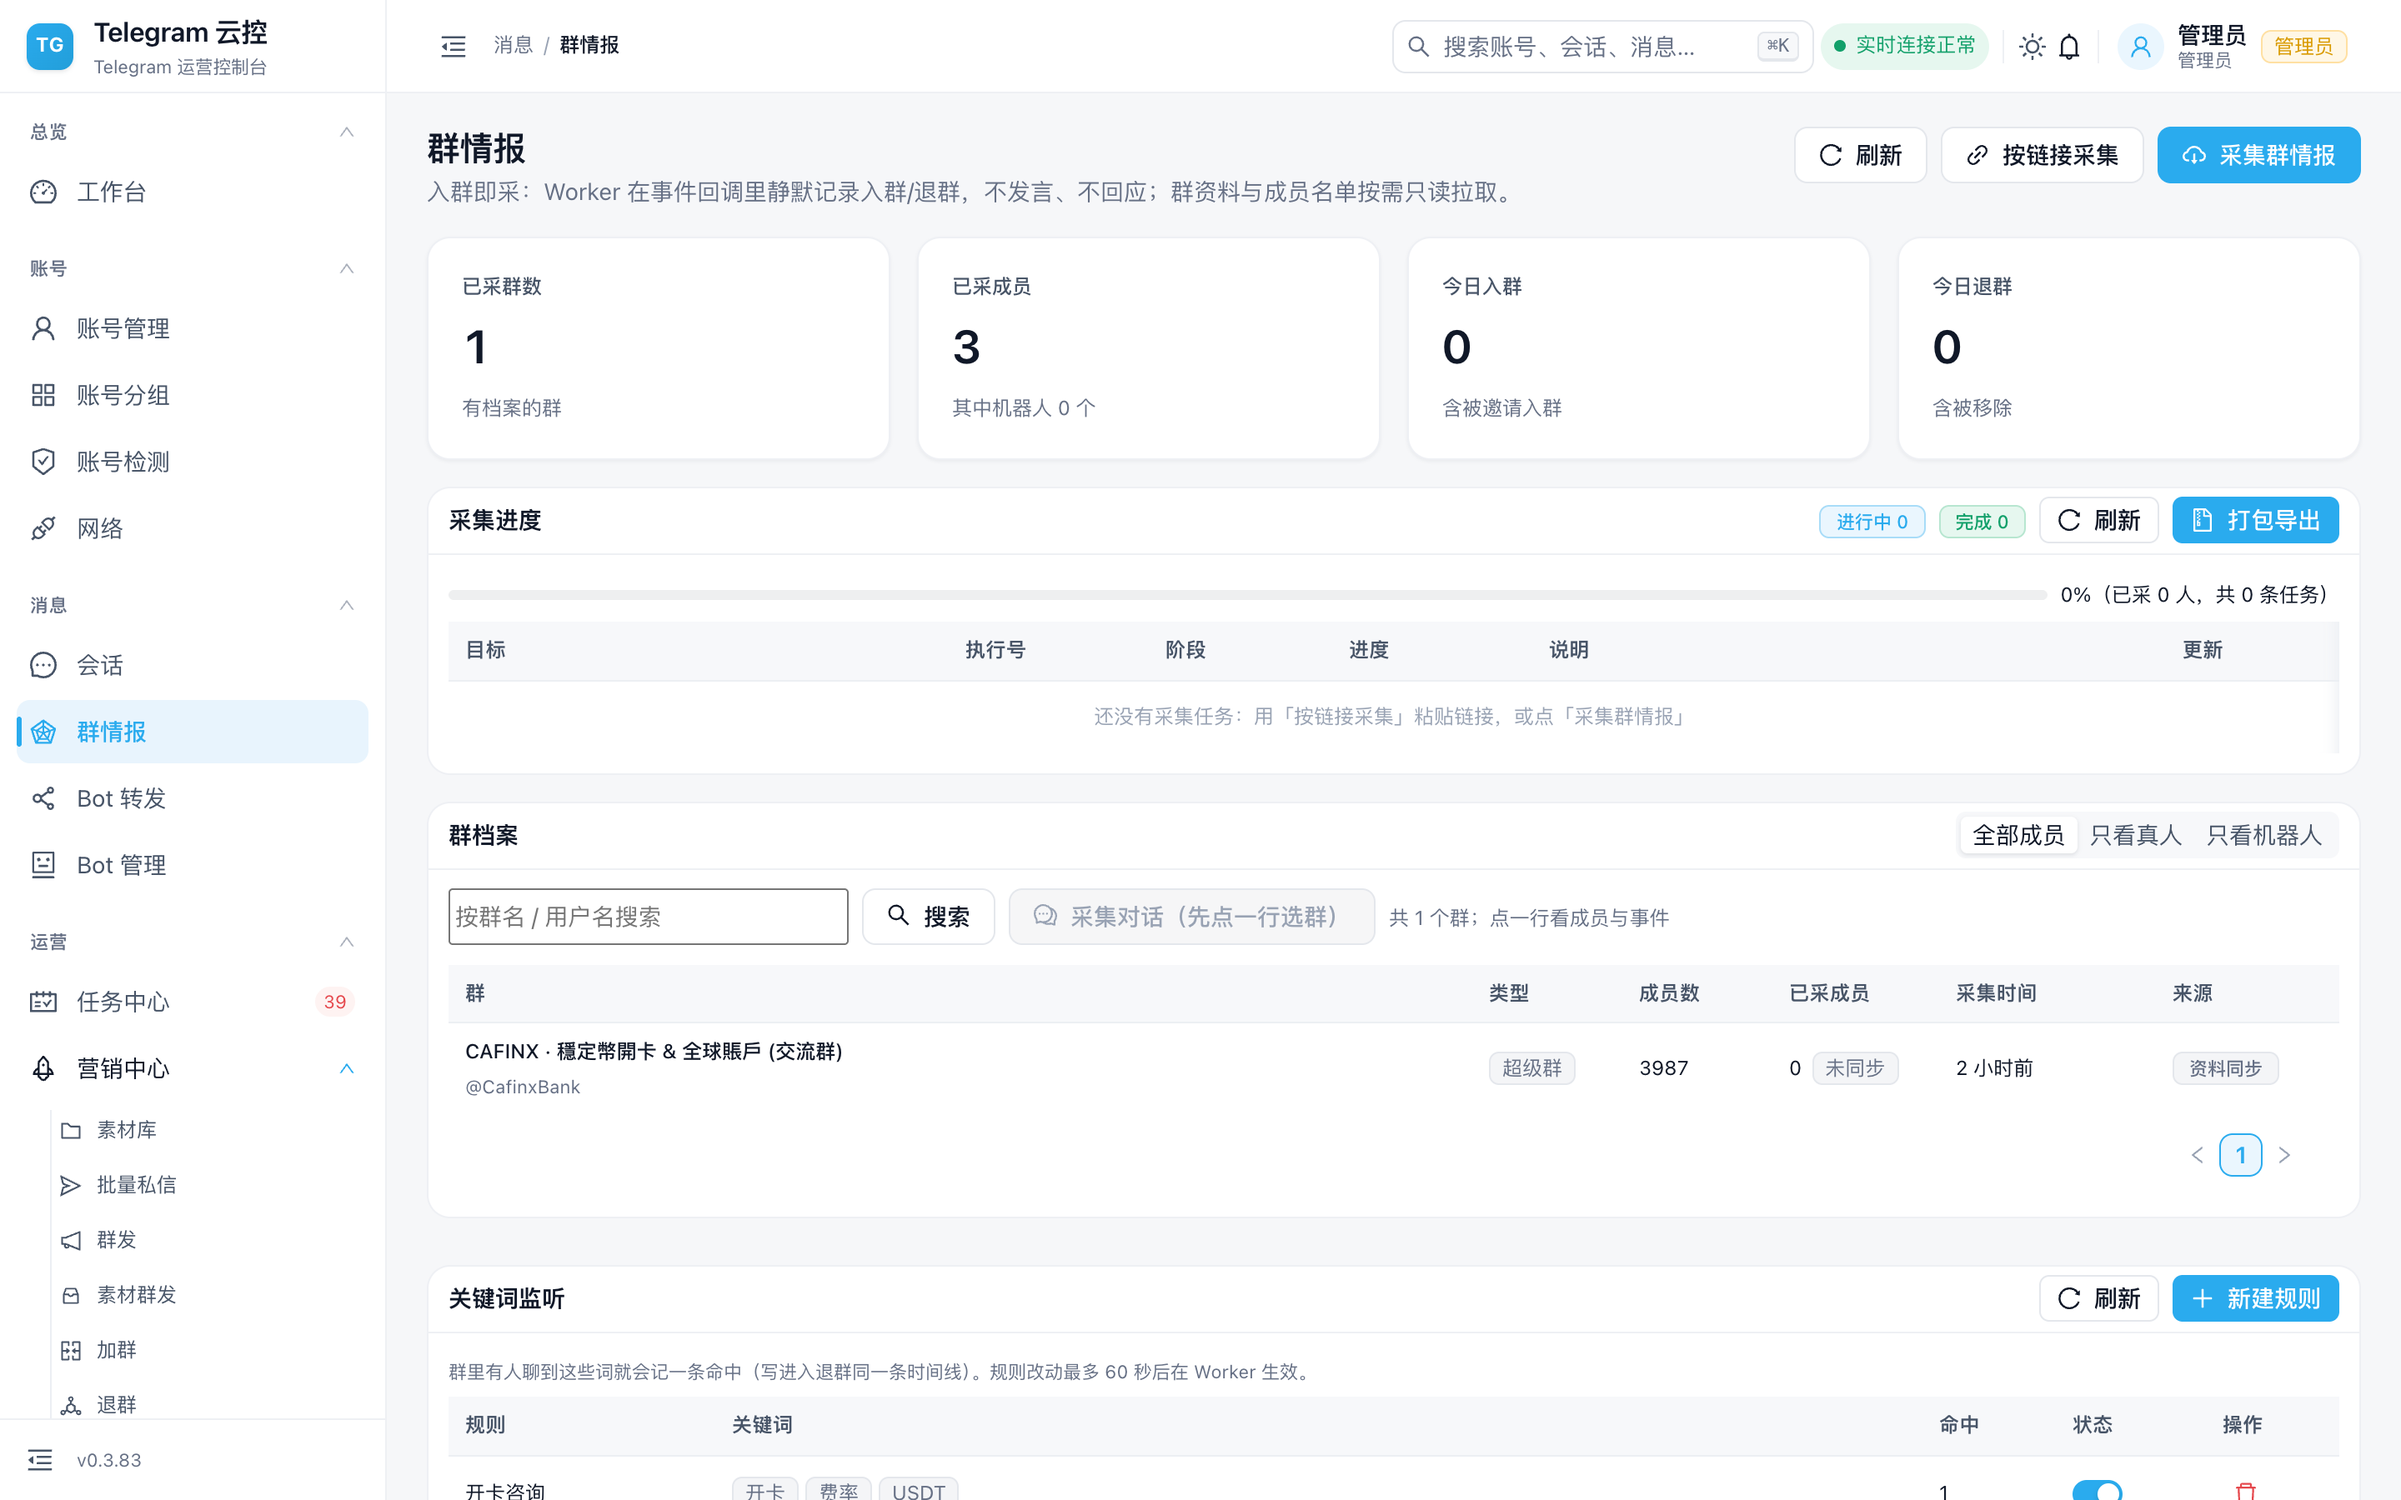
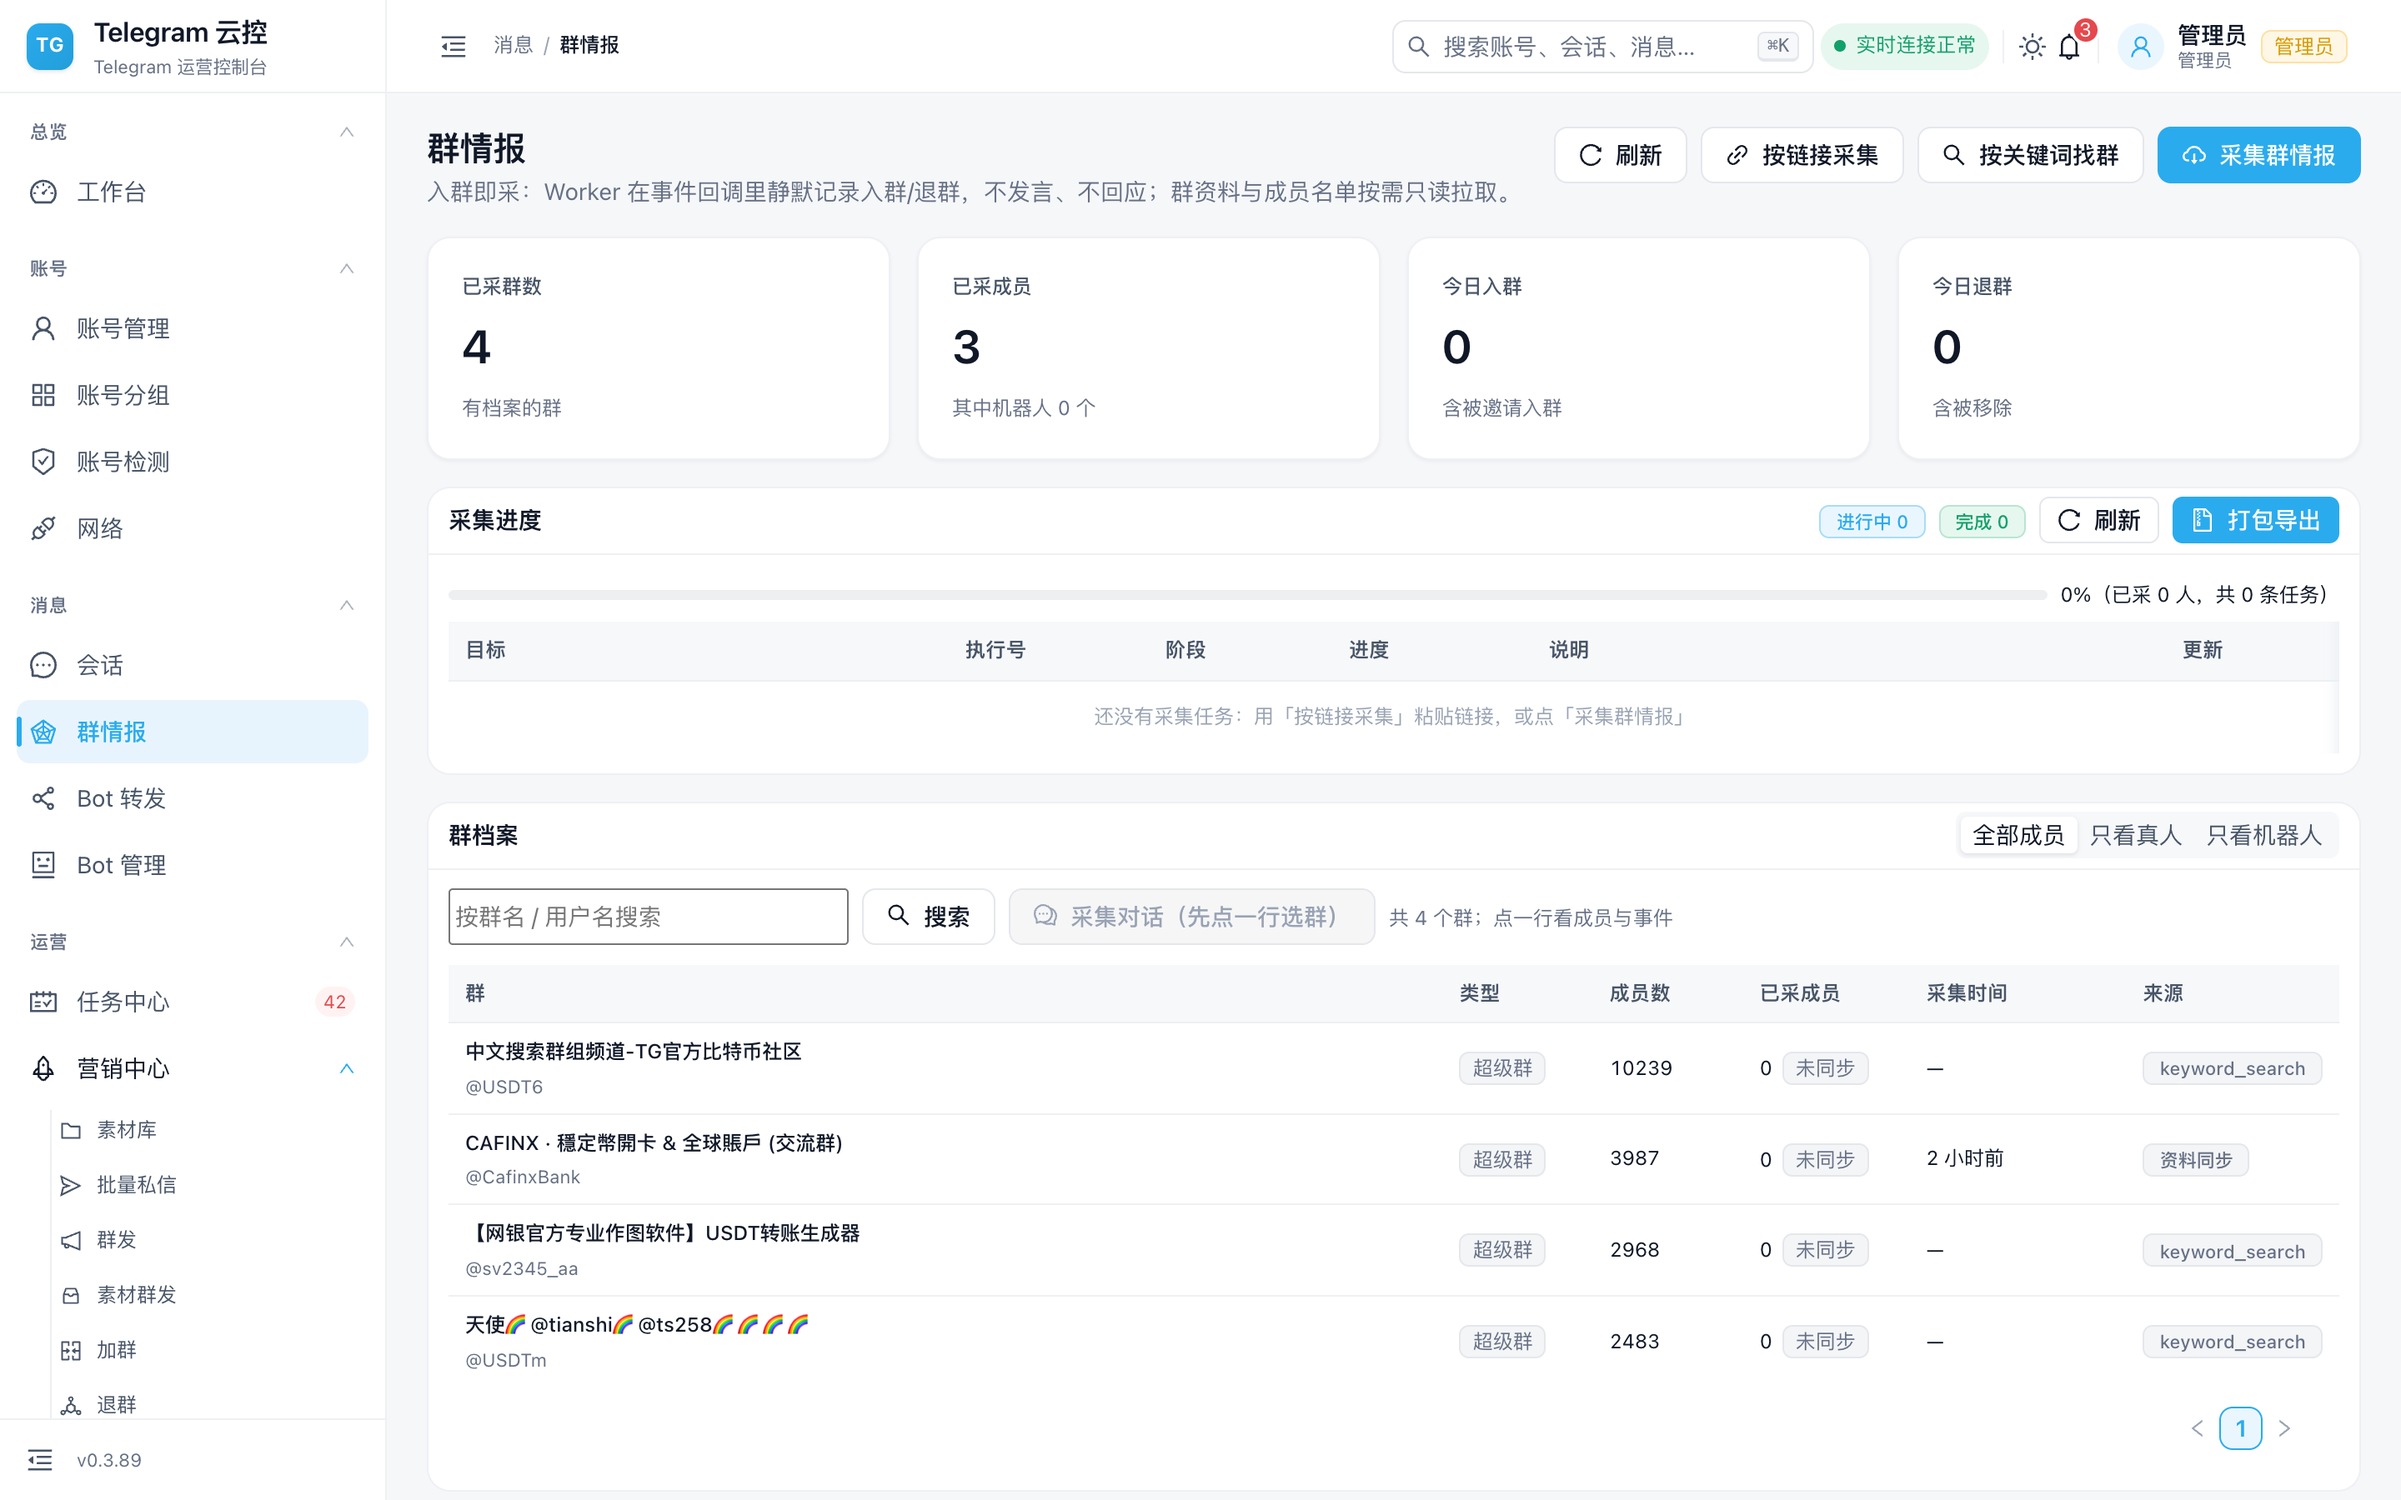
v0.3.91：按关键词找群的前端入口（第 1 项补完）
新增：群情报页顶部「按关键词找群」按钮 + 弹窗（关键词最多 20 个 / 每词取多少 /
成员数门槛 / 只要群-只要频道-都要）；弹窗写明走 Telegram 原生搜索、不依赖第三方站、全程只读；
结果落进群档案可直接接筛群

验证：群情报页截图确认按钮区为「刷新 / 按链接采集 / 按关键词找群 / 采集群情报」

至此第 1 项（群搜索引擎采集）后端+API+前端+实测四项齐；COMPETITOR_ANALYSIS 已勾掉

版本：VERSION → 0.3.91

diff --git a/frontend/src/pages/GroupIntel.tsx b/frontend/src/pages/GroupIntel.tsx
@@ -22,6 +22,7 @@ import {
   Tabs,
   Tag,
   Tooltip,
+  Select,
   Typography,
 } from 'antd';
 import type { ColumnsType } from 'antd/es/table';
@@ -68,6 +69,13 @@ export default function GroupIntel() {
   const [msgIncludeBots, setMsgIncludeBots] = useState(false);
   const [msgLimit, setMsgLimit] = useState(1000);
   const [msgKeywords, setMsgKeywords] = useState('');
+  // 按关键词找群：走 Telegram 原生搜索，结果直接落进群档案
+  const [findOpen, setFindOpen] = useState(false);
+  const [findBusy, setFindBusy] = useState(false);
+  const [findKeywords, setFindKeywords] = useState('');
+  const [findPer, setFindPer] = useState(50);
+  const [findMinMembers, setFindMinMembers] = useState(500);
+  const [findKind, setFindKind] = useState<'any' | 'group' | 'channel'>('group');
   const [memberScope, setMemberScope] = useState<'all' | 'human' | 'bot'>('all');
   const [collectOpen, setCollectOpen] = useState(false);
   const [collectBusy, setCollectBusy] = useState(false);
@@ -382,6 +390,9 @@ export default function GroupIntel() {
           </Button>
           <Button icon={<LinkOutlined />} onClick={() => setLinkOpen(true)}>
             按链接采集
+          </Button>
+          <Button icon={<SearchOutlined />} onClick={() => setFindOpen(true)}>
+            按关键词找群
           </Button>
           <Button type="primary" icon={<CloudDownloadOutlined />} onClick={() => setCollectOpen(true)}>
             采集群情报
@@ -744,6 +755,83 @@ export default function GroupIntel() {
           </div>
         </div>
       </Modal>
+      <Modal
+        open={findOpen}
+        title="按关键词找公开群"
+        okText="开始搜索"
+        cancelText="取消"
+        confirmLoading={findBusy}
+        onCancel={() => setFindOpen(false)}
+        onOk={async () => {
+          const keywords = findKeywords
+            .split(/[,\n，]/)
+            .map((item) => item.trim())
+            .filter(Boolean);
+          if (!keywords.length) {
+            toast.warning('至少填一个关键词');
+            return;
+          }
+          setFindBusy(true);
+          try {
+            const res = await groupIntelApi.searchGroups({
+              scope: 'all',
+              keywords,
+              per_keyword: findPer,
+              min_members: findMinMembers,
+              kind: findKind,
+            });
+            setFindOpen(false);
+            setCollectResult(res);
+            void jobs.reload();
+            void profiles.reload();
+          } catch {
+            /* client 已统一提示 */
+          } finally {
+            setFindBusy(false);
+          }
+        }}
+      >
+        <div className="tg-stack" style={{ gap: 'var(--tg-space-lg)' }}>
+          <Alert
+            type="info"
+            showIcon
+            message="用 Telegram 原生搜索找群，不依赖第三方目录站"
+            description="输入关键词，系统直接调 Telegram 的公开搜索，实时返回匹配的群/频道（连成员数一起给），找到的群会落进下面的群档案——之后可以接着用「筛群」判断值不值得投。全程只读：不加群、不发言。"
+          />
+          <div className="tg-stack" style={{ gap: 2 }}>
+            <span>关键词（逗号或换行分隔，最多 20 个）</span>
+            <Input.TextArea
+              rows={2}
+              style={{ maxWidth: 460 }}
+              placeholder={'USDT\n开卡\ncrypto 中文'}
+              value={findKeywords}
+              onChange={(e) => setFindKeywords(e.target.value)}
+            />
+          </div>
+          <Space size="large" wrap>
+            <span>
+              每个词取
+              <InputNumber min={1} max={100} value={findPer} onChange={(v) => setFindPer(Number(v) || 50)} style={{ width: 90, margin: '0 6px' }} />
+              个
+            </span>
+            <span>
+              成员数 ≥
+              <InputNumber min={0} max={1000000} step={100} value={findMinMembers} onChange={(v) => setFindMinMembers(Number(v) || 0)} style={{ width: 120, margin: '0 6px' }} />
+            </span>
+            <Select
+              value={findKind}
+              onChange={setFindKind}
+              style={{ width: 130 }}
+              options={[
+                { value: 'group', label: '只要群' },
+                { value: 'channel', label: '只要频道' },
+                { value: 'any', label: '群和频道' },
+              ]}
+            />
+          </Space>
+        </div>
+      </Modal>
+
       <KeywordWatchPanel />
       <ReplyRulePanel />
     </PageContainer>

diff --git a/frontend/src/api/endpoints.ts b/frontend/src/api/endpoints.ts
@@ -318,6 +318,16 @@ export const groupIntelApi = {
   stats: () => api.get<GroupIntelStats>('/api/group-intel/stats'),
   /** 批量采集：对选中的号采它们已加入的群（只读，不发言） */
   collect: (payload: GroupCollectRequest) => api.post<BulkResultOut>('/api/group-intel/collect', payload),
+  /** 按关键词找公开群：走 Telegram 原生搜索（不用第三方群目录站） */
+  searchGroups: (payload: {
+    scope?: string;
+    account_ids?: string[];
+    keywords: string[];
+    per_keyword?: number;
+    min_members?: number;
+    kind?: 'any' | 'group' | 'channel';
+    limit?: number;
+  }) => api.post<BulkResultOut>('/api/group-intel/search-groups', payload),
   // 关键词监听：规则 CRUD + 命中流水
   keywordWatches: () => api.get<{ items: KeywordWatchOut[]; total: number }>('/api/group-intel/keyword-watches'),
   createKeywordWatch: (payload: {

diff --git a/CHANGELOG.md b/CHANGELOG.md
@@ -7,6 +7,29 @@
 
 ---
 
+## v0.3.91 — 2026-03-30
+
+主题：**按关键词找群的前端入口**（第 1 项补完）。
+
+### 新增
+
+- 群情报页顶部新增 **「按关键词找群」** 按钮（与「按链接采集」「采集群情报」并列）；
+- 点开是一个弹窗：**关键词**（逗号或换行分隔，最多 20 个）+ **每个词取多少个**
+  + **成员数门槛** + **类型**（只要群 / 只要频道 / 都要）；
+- 弹窗里写明这条路线与对手的区别：「用 Telegram 原生搜索找群，不依赖第三方目录站」，
+  以及**全程只读**（不加群、不发言）；
+- 提交后结果落进下方**群档案**，可接着用「筛群」判断值不值得投。
+
+### 验证（截图）
+
+群情报页截图实测：按钮区为「刷新 / 按链接采集 / **按关键词找群** / 采集群情报」。
+
+### 至此第 1 项完成
+
+后端（`contacts.Search` + 落档，已端到端实测找到 3 个群）+ API + 前端入口 + 实测，四项齐。
+
+---
+
 ## v0.3.90 — 2026-03-30
 
 主题：**按关键词找公开群**（竞品差距第 1 项，后端已通）。

diff --git a/docs/COMPETITOR_ANALYSIS.md b/docs/COMPETITOR_ANALYSIS.md
@@ -96,7 +96,7 @@
 
 | # | 差距项 | 状态 |
 |---|---|---|
-| 1 | 群搜索引擎采集 | **后端已完成**（改用 Telegram 原生 `contacts.Search`，已端到端实测找到 3 个群含成员数）；前端入口待补 |
+| 1 | 群搜索引擎采集 | ✅ **已完成**（改用 Telegram 原生 `contacts.Search`；端到端实测找到 3 个群含成员数；群情报页「按关键词找群」入口已就位） |
 | 2 | 筛群工具 | **已由另一条工作线实现**（`/api/group-intel/inspect-groups`，批量体检群链接）。待增强：`worth_it`（能否投放）、`can_send`（能否发言）、`slowmode`（慢速模式）、`needs_approval`（是否需审核） |
 | 3 | 客服收件箱 | 待做 |
 | 4 | 关键词实时监听+告警 | ✅ **已完成**（规则表 + Worker 实时匹配 + 命中流水 + 4 个接口 + 群情报页监听面板，均已实测） |
